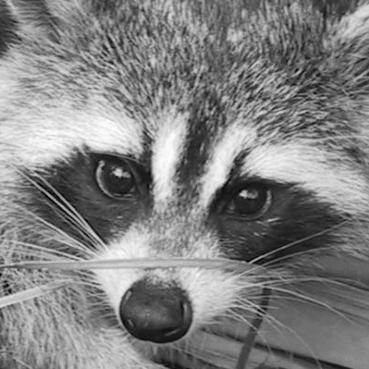
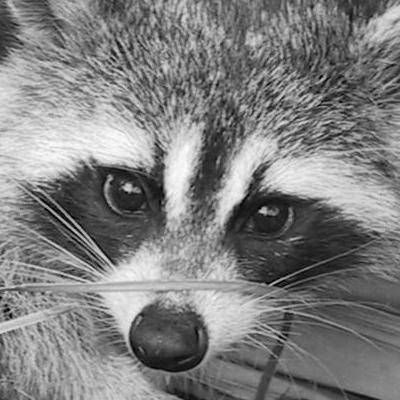
fixed_04

diff --git a/ex04/load_image.py b/ex04/load_image.py
@@ -4,25 +4,28 @@ from PIL import Image
 
 
 def ft_load(path: str) -> np.ndarray:
-    assert str is not None, 'path must be a string'
-    assert isinstance(path, str), 'path must be a string'
-    assert path.endswith(('.jpg', 'jpeg', 'png')), 'path must be a jpg file'
+	assert str is not None, 'path must be a string'
+	assert isinstance(path, str), 'path must be a string'
+	assert path.endswith(('.jpg', 'jpeg', 'png')), 'path must be a jpg file'
 
-    img = plt.imread(path)
-    pixels = np.array(img)
+	img = plt.imread(path)
+	pixels = np.array(img)
 
-    return pixels
+	return pixels
 
 
 def zoom(path: str) -> np.ndarray:
-    image_data = plt.imread(path)
-    cropped_image_data = image_data[114:514, 452:852, 1]
-    cropped_image = Image.fromarray(cropped_image_data)
-    image_3d = np.expand_dims(cropped_image, axis=2)
-    plt.imshow(image_3d, cmap="gray")
-    plt.axis('off')
-    plt.savefig("cropped_image.jpeg", bbox_inches='tight', pad_inches=0)
-    plt.axis('on')
-    plt.show()
-    return image_3d
+	image_data = plt.imread(path)
+	cropped_image_data = image_data[114:514, 452:852, 1]
+	cropped_image = Image.fromarray(cropped_image_data)
+	image_3d = np.expand_dims(cropped_image, axis=2)
+	# plt.imshow(image_3d, cmap="gray")
+	# plt.axis('off')
+	# plt.savefig("cropped_image.jpeg", bbox_inches='tight', pad_inches=0)
+	resized_image = cropped_image.resize((400, 400))
+	resized_image.save("cropped_image.jpeg")
+	plt.imshow(resized_image, cmap="gray")
+	plt.axis('on')
+	plt.show()
+	return image_3d
 

diff --git a/ex04/rotate.py b/ex04/rotate.py
@@ -1,5 +1,5 @@
 from load_image import zoom, ft_load
-# from PIL import Image
+from PIL import Image
 import matplotlib.pyplot as plt
 import numpy as np
 
@@ -17,8 +17,9 @@ import numpy as np
 
 def ft_rotate(path: str) -> list:
     # Read the image
+    # image = Image.open(path)
     image = plt.imread(path)
-    print("The shape of the image is: ", image.shape)
+
 
     # Transpose the image (rotate 90 degrees counterclockwise)
     rotated_image = [t for t in zip(*image)]
@@ -27,11 +28,12 @@ def ft_rotate(path: str) -> list:
     rotated_image_array = np.array(rotated_image)
 
     # Save the rotated image
+    plt.axis('off')
     plt.imsave("rotated_image.jpeg", rotated_image_array, cmap="gray")
 
     # Display the rotated image
     plt.imshow(rotated_image_array, cmap="gray")
-    plt.axis('off')
+    plt.axis('on')
     plt.show()
 
     return rotated_image_array

diff --git a/ex04/delete.py b/ex04/delete.py
@@ -1,0 +1,19 @@
+import matplotlib.pyplot as plt
+from PIL import Image
+
+# Load the image using Pillow
+path = "animal.jpeg"
+image = Image.open(path)
+
+# Define the new dimensions (width, height)
+new_width = 200
+new_height = 150
+
+# Resize the image using Pillow
+resized_image = image.resize((new_width, new_height))
+
+# Save or display the resized image
+resized_image.save("resized_image.png")
+plt.imshow(resized_image)
+plt.axis('on')
+plt.show()

diff --git a/ex05/load_image.py b/ex05/load_image.py
@@ -8,7 +8,7 @@ def ft_load(path: str) -> list:
     assert isinstance(path, str), 'path must be a string'
     assert path.endswith(('.jpg', 'jpeg', 'png')), 'path must be a png file'
 
-    img = Image.open(path)
+    img = plt.imread(path)
     pixels = np.array(img)
 
     return pixels
